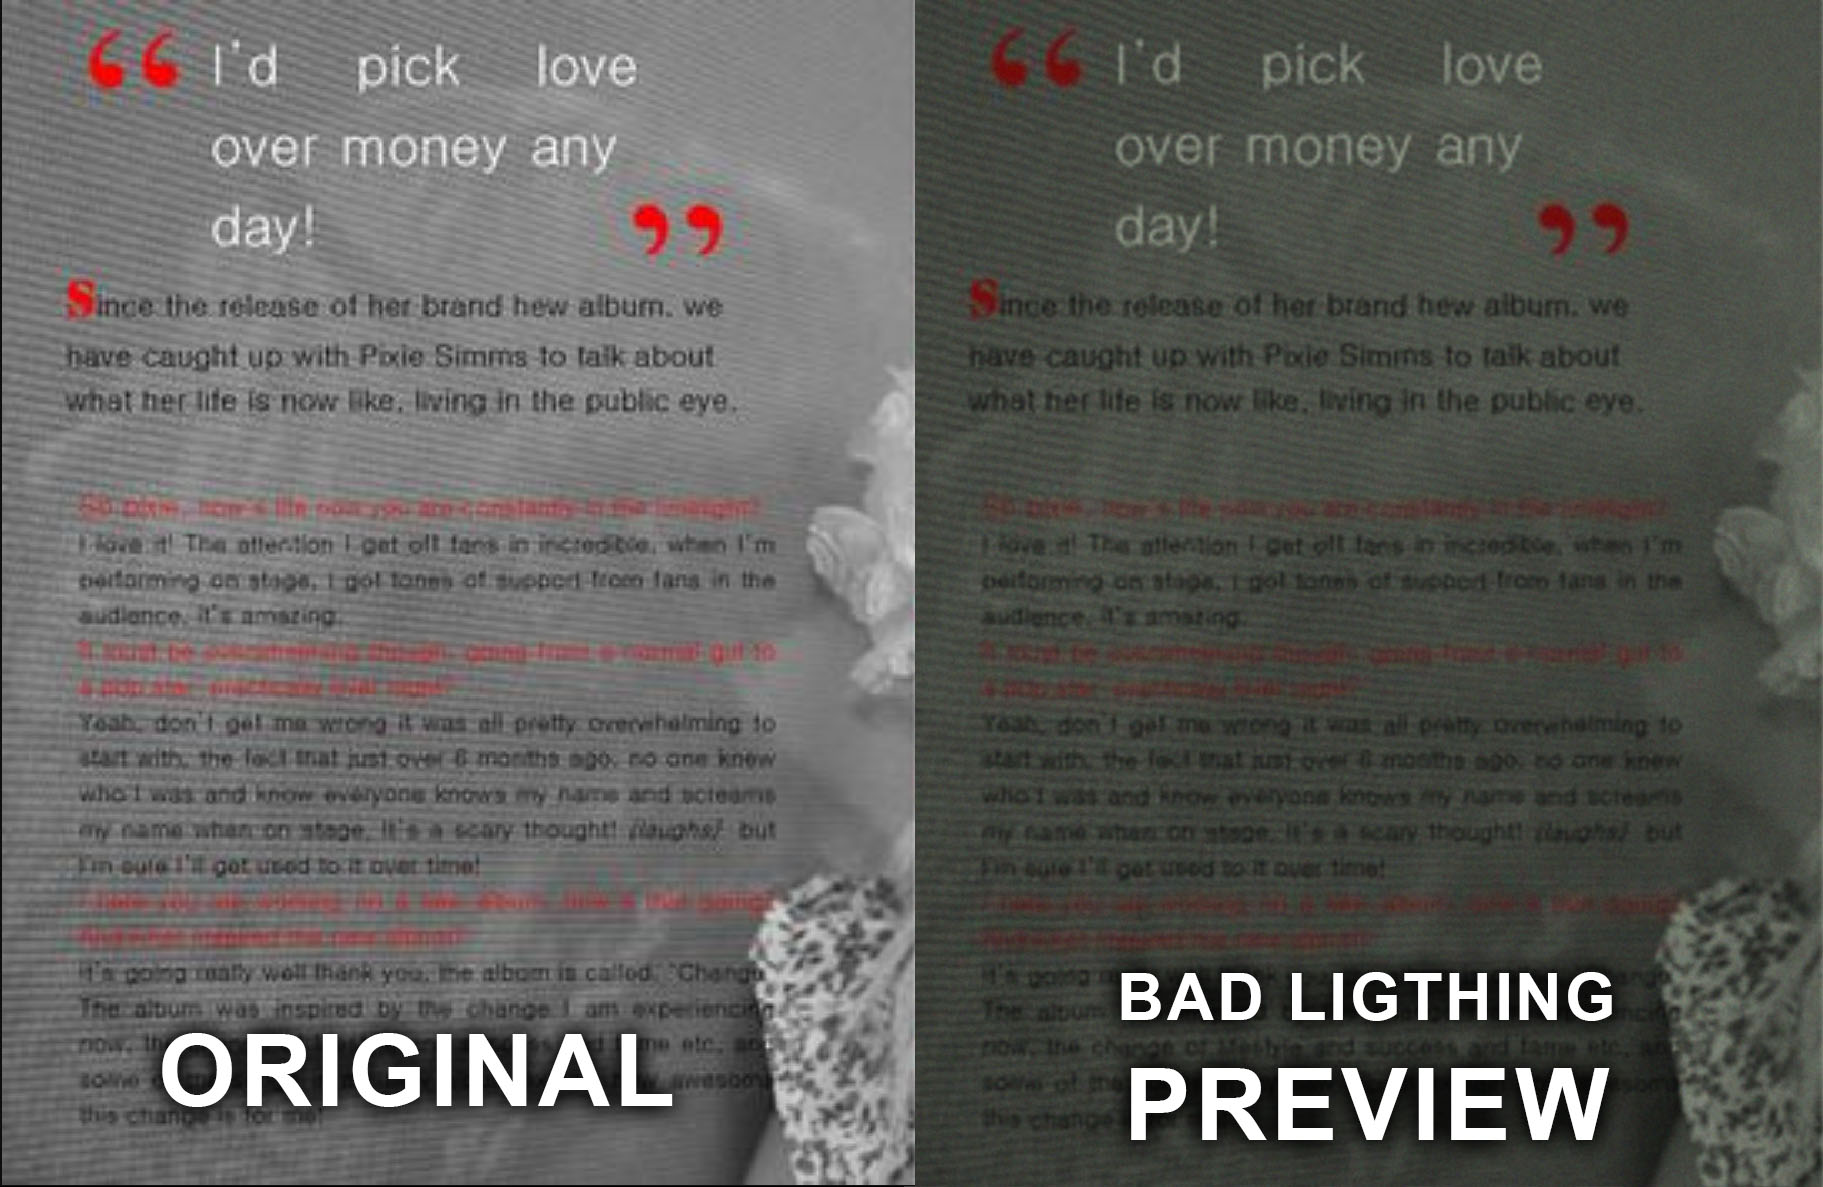
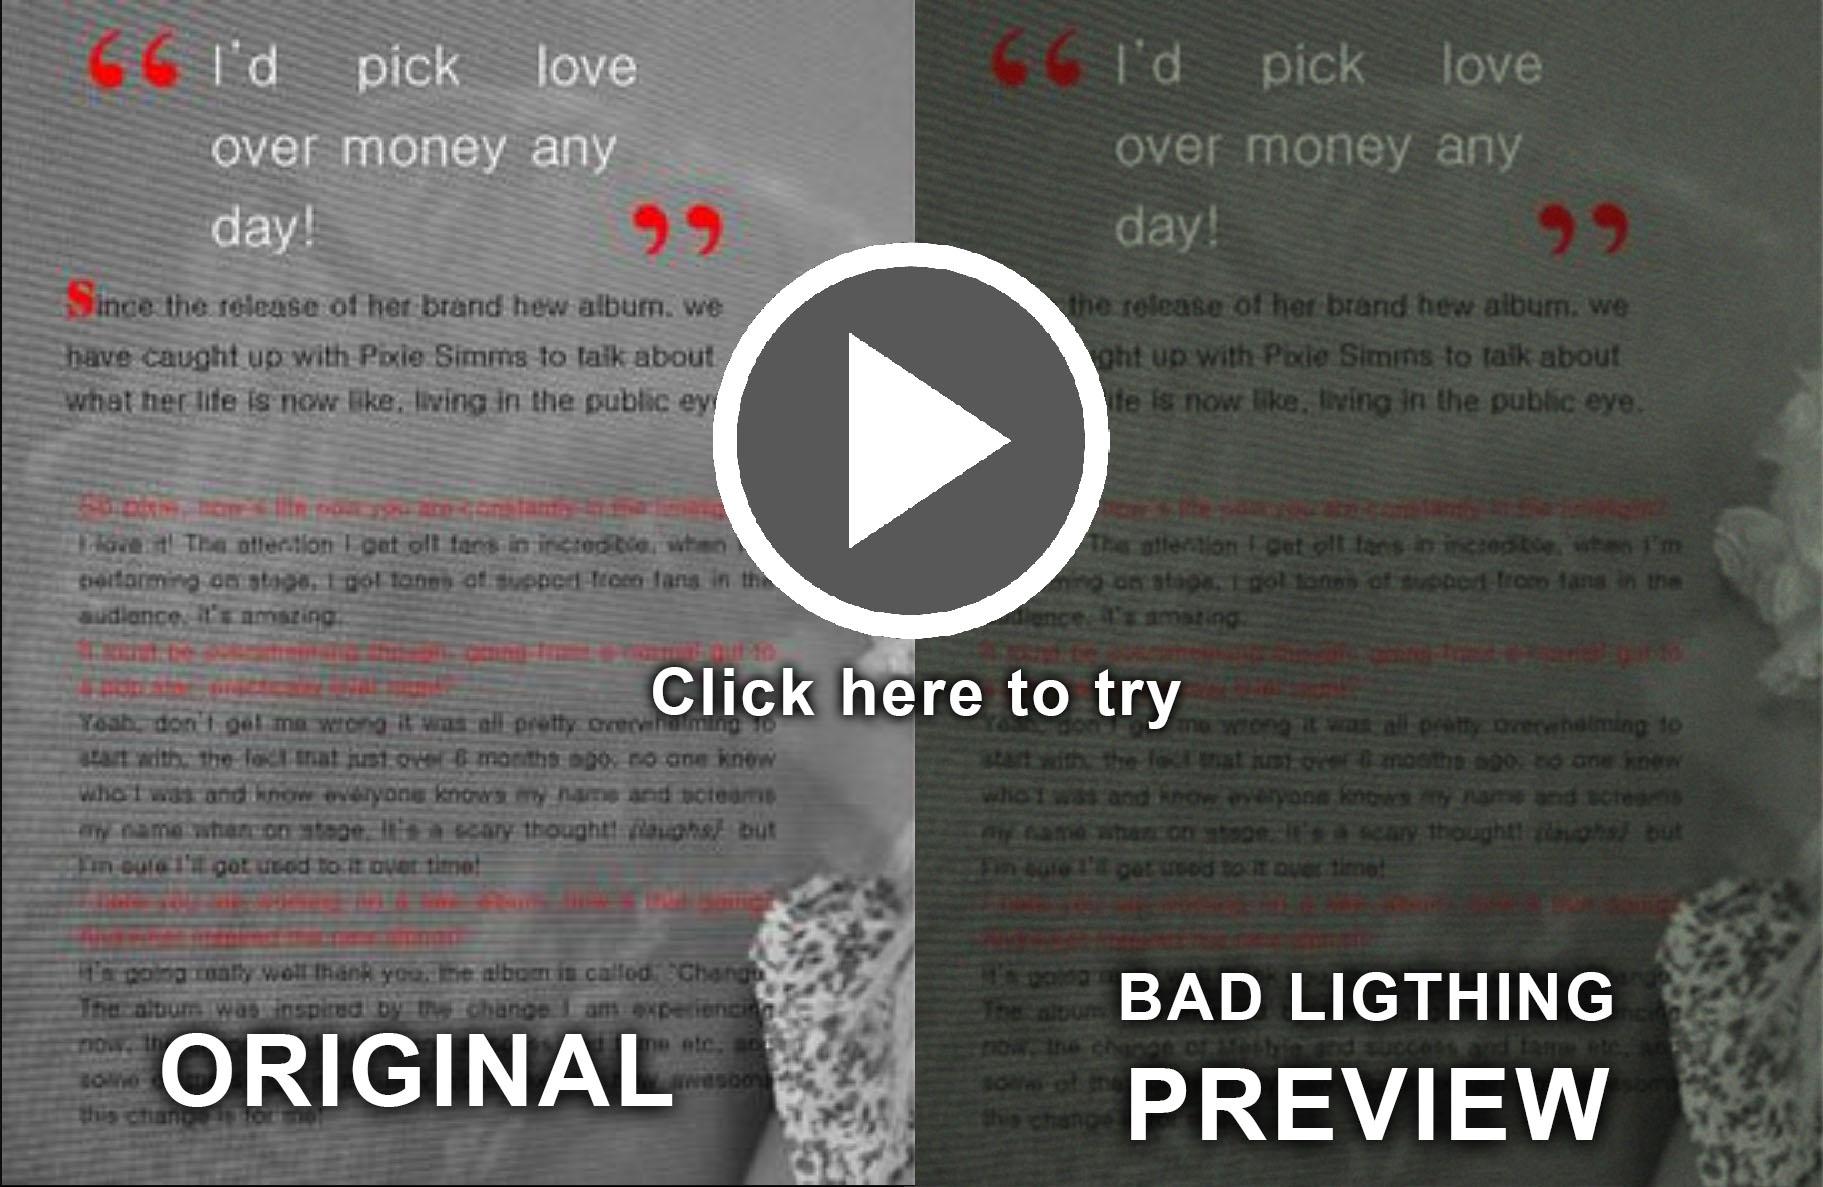
added link to site

Changed region(s): [[0.3379, 0.187, 0.6451, 0.6234]]

diff --git a/index.html b/index.html
@@ -84,7 +84,7 @@
 
                 <br><br>
                 <h3>Report bugs</h3>
-                <p>Code and posting issues available on <a href="" style="color: rgb(184, 210, 255);">GitHub</a></p>
+                <p>Code and posting issues available on <a href="https://github.com/Jesper-Hustad/bad-light-preview" style="color: rgb(184, 210, 255);">GitHub</a></p>
             </p>
         </div>
     </div>

diff --git a/README.md b/README.md
@@ -1,14 +1,15 @@
 # Bad lighting preview
 A simple online tool to preview prints in bad lightning conditions. This is achieved by adding a color curve for  darkness, blur, noise, and wave distort.  
 
-
-
-![](example.jpg)
+[![](example.jpg)](https://jesper-hustad.github.io/bad-light-preview/)
+Access the site by clicking the image or [here](https://jesper-hustad.github.io/bad-light-preview/)
 
 ## Issues
-If there are any issues feel free to post a issue.  
+If there are any issues feel free to post a issue here on GitHub.  
 Instructions here: [docs.github.com/creating-an-issue](https://docs.github.com/en/issues/tracking-your-work-with-issues/creating-an-issue)  
 
 ## Contribution
-Feel free to improve anything that's missing. Happy to include features to improve the tool.
+Feel free to improve anything that's missing. Happy to include features that improve the tool.  
+
+Mainly improving information or creating a more realistic preview.
 
